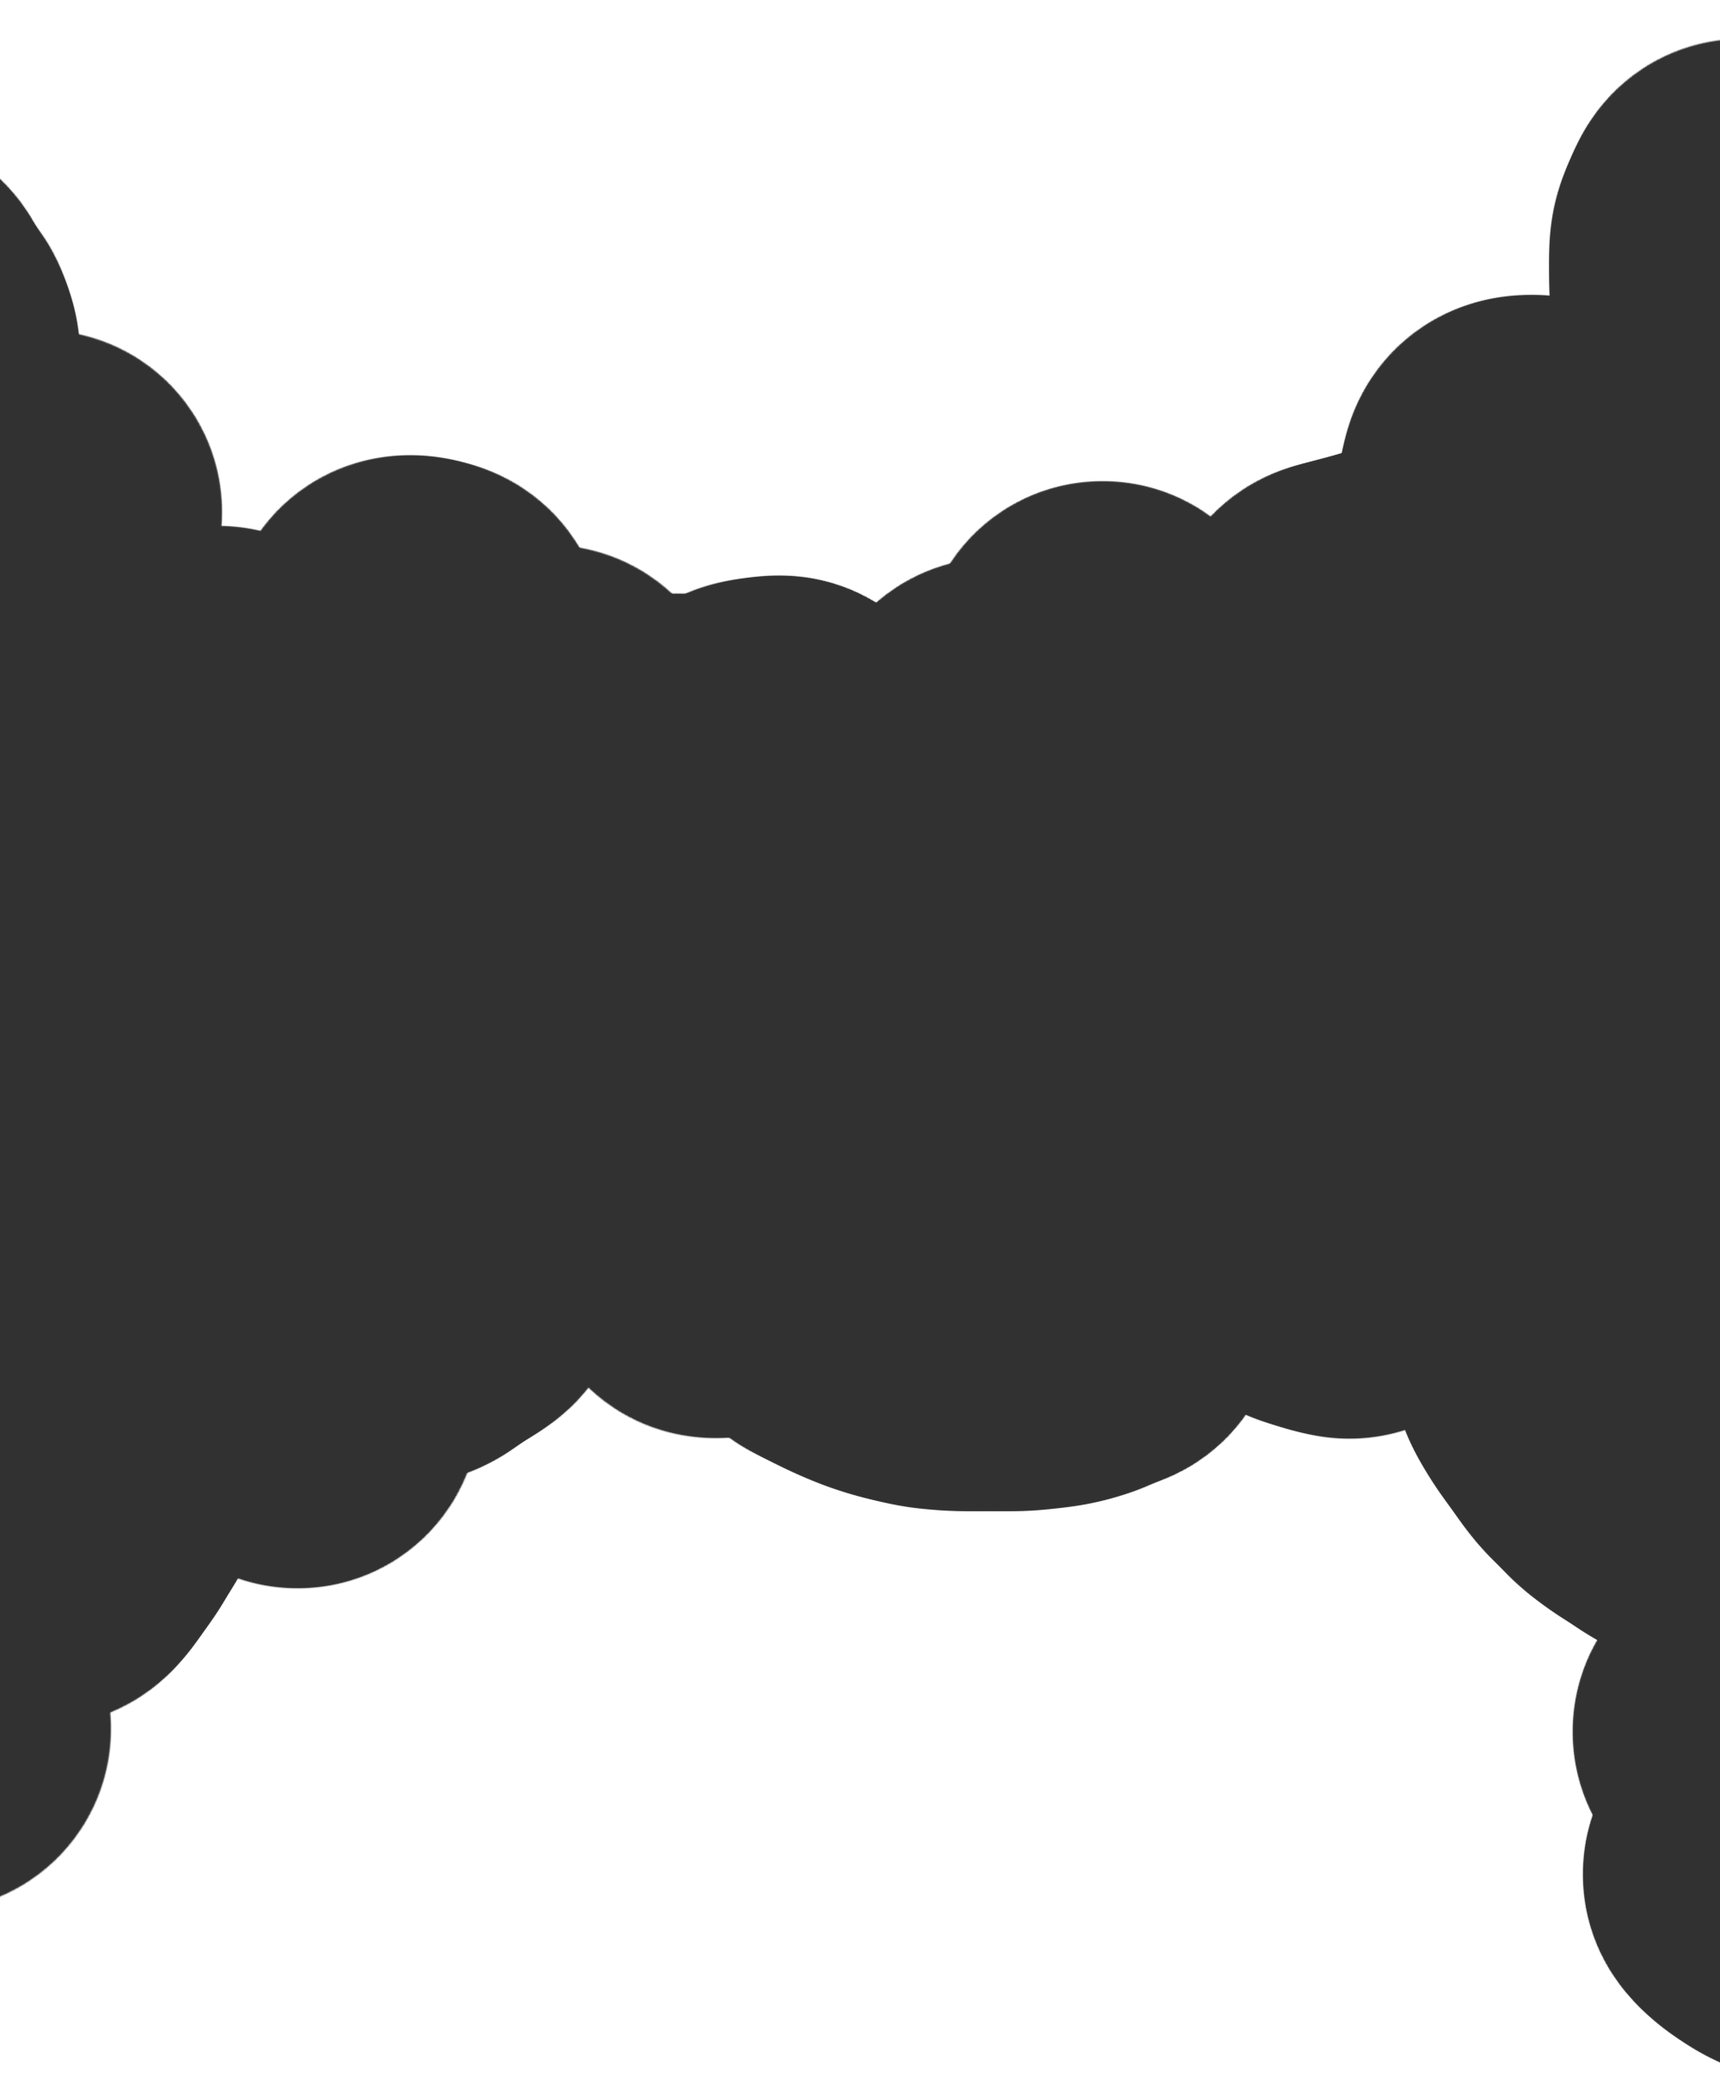
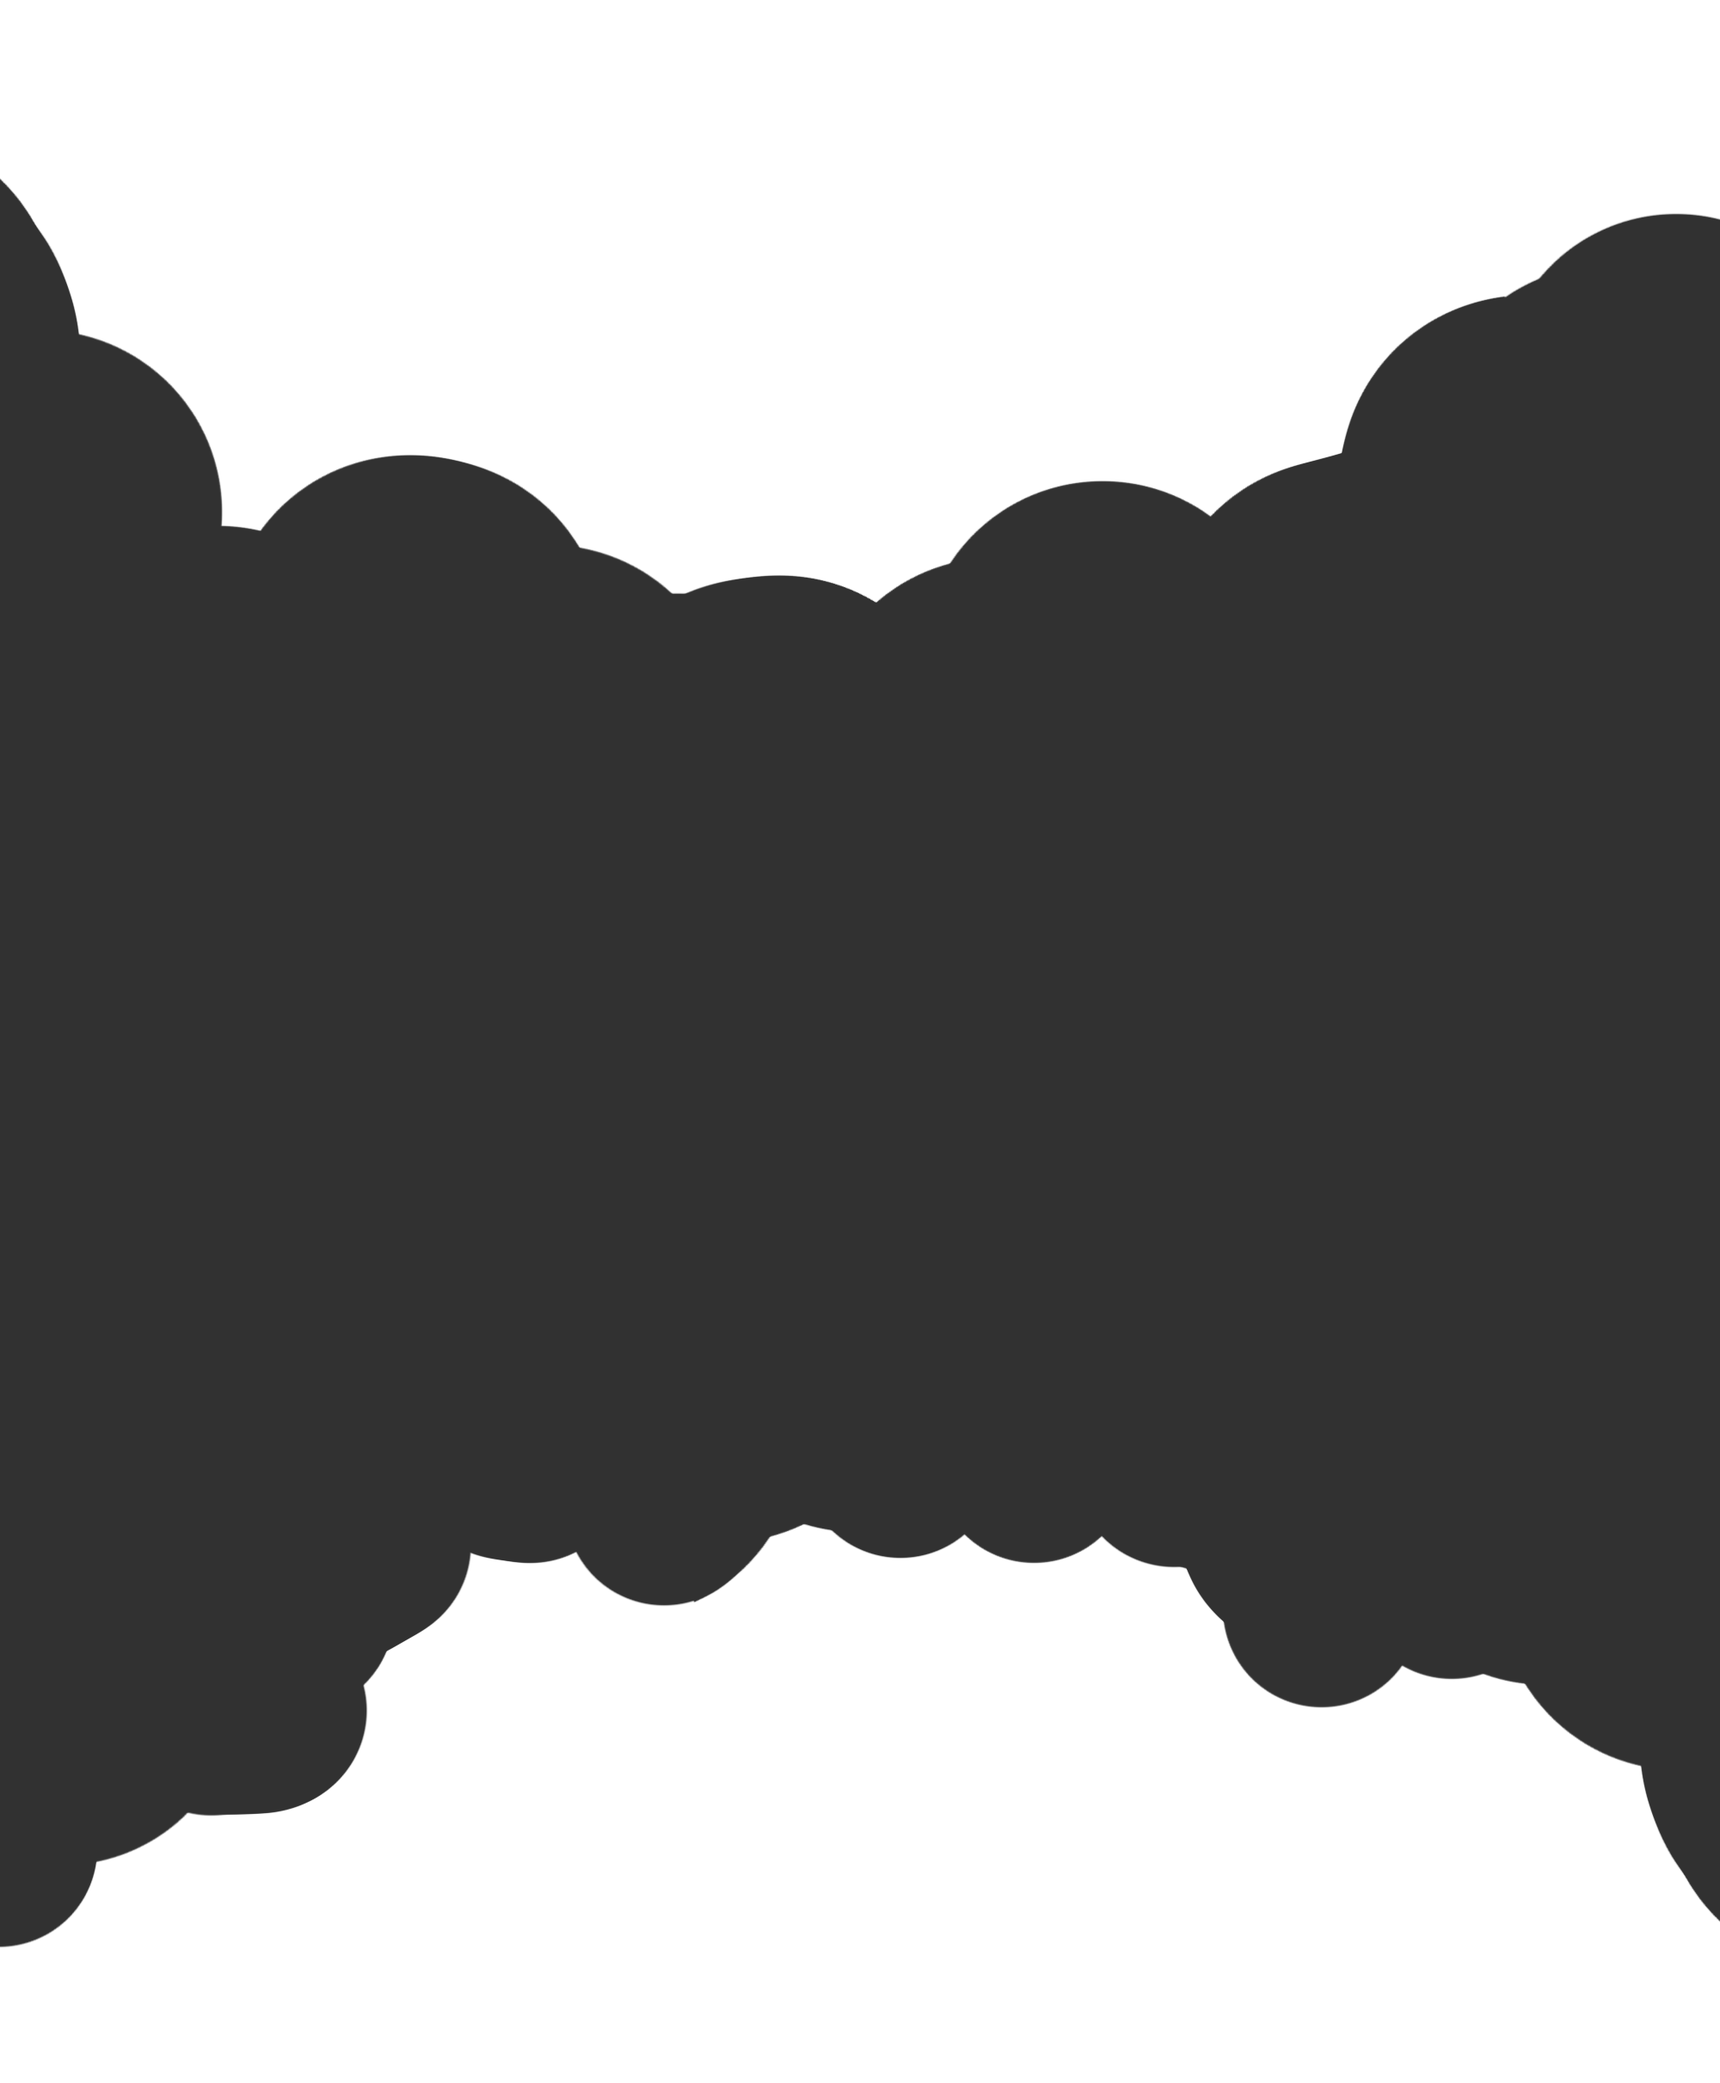
Matter Js build

Changed region(s): [[0.0, 0.65, 1.0, 0.9905], [0.899, 0.0, 1.0, 0.1238], [0.868, 0.1238, 0.899, 0.1548]]

diff --git a/src/components/Build.vue b/src/components/Build.vue
@@ -1,8 +1,5 @@
 <template>
   <div id="build">
-    <h2 id="build_title">
-      Build
-    </h2>
     <div id="matter_scene">
     </div>
   </div>
@@ -30,17 +27,56 @@ export default {
       for (let i of pos_list){
         this.createItem(i[0], i[1])
       }    
-      
-      // Title animation
-      let build_title = document.getElementById('build_title')
-      build_title.style.opacity = "1"
-      build_title.style.transform = "translateY(10vh)"
 
-      build_title.dataset.scroll = ""
-      build_title.dataset.scrollSpeed = "-10"
+      let stack = [
+        {
+          url: require("../assets/image/buildTitle/b.png"),
+          width: 390,
+          height: 560
+        },
+        {
+          url: require("../assets/image/buildTitle/u.png"),
+          width: 315,
+          height: 428
+        },
+        {
+          url: require("../assets/image/buildTitle/i.png"),
+          width: 19,
+          height: 592
+        },
+        {
+          url: require("../assets/image/buildTitle/l.png"),
+          width: 46,
+          height: 577
+        },
+        {
+          url: require("../assets/image/buildTitle/d.png"),
+          width: 394,
+          height: 600
+        }]
+
+      for (let i = 0; i < stack.length; i++){
+        this.createLetter(stack[i], i)
+      }
     },
     createItem(w, h){
       var item = this.Bodies.rectangle(w, h, 100, 100)
+      this.World.add(this.engine.world, [item])
+    },
+    createLetter(letter, pos){
+      let widthPart = window.innerWidth / 7
+      let final_height = window.innerHeight / 2
+
+      let ratio = (letter.height / final_height)
+      let final_width = letter.width / ratio
+      
+      let item = this.Bodies.rectangle(widthPart * (pos + 1), 500, final_width, final_height)
+      item.render.sprite.texture = letter.url
+      item.render.sprite.xScale = 1 / ratio
+      item.render.sprite.yScale = 1 / ratio
+
+      console.log(ratio)
+      
       this.World.add(this.engine.world, [item])
     }
   },
@@ -54,14 +90,14 @@ export default {
     
     // create a renderer
     let render_2d = Render.create({
-    element: container,
-    engine: this.engine,
-    options: {
+      element: container,
+      engine: this.engine,
+      options: {
         wireframes: false,
         height: window.innerHeight,
         width: window.innerWidth,
         background: 'transparent',
-    }
+      }
     })
 
     let ground = this.Bodies.rectangle( -200, window.innerHeight, window.innerWidth * 2 + 800, 50, { isStatic: true })
@@ -98,19 +134,6 @@ export default {
   overflow: hidden;
 
   display: grid;
-}
-#build_title
-{
-  font-size: 35vw;
-  text-align: center;
-  transform: translateY(-30vh);
-  transition-duration: 500ms;
-  margin: 0px;
-  opacity: 0;
-  
-  grid-column: 1;
-  grid-row: 1;
-  pointer-events: none;
 }
 #matter_scene
 {

diff --git a/src/components/Cloud.vue b/src/components/Cloud.vue
@@ -2,7 +2,7 @@
   <div id="cloud"> 
     <div id="cloud_container" data-scroll data-scroll-speed="4">
       <img :src="require('../assets/image/cloud.png')" alt="cloud">
-      <p>
+      <p data-scroll data-scroll-speed="-2">
         and
       </p>
     </div>
@@ -20,7 +20,7 @@ export default {
 {
   position: absolute;
   z-index: 2;
-  pointer-events: none;
+  pointer-events: none !important;
 }
 #cloud_container
 {
@@ -29,14 +29,12 @@ export default {
   height: 150vh;
 
   top: -85vh;
-  pointer-events: none;
 }
 #cloud_container img
 {
   object-fit: fill;
   width: 100%;
   height: 100%;
-  pointer-events: none;
 }
 #cloud_container p
 {
@@ -44,6 +42,5 @@ export default {
   font-size: 6vw; 
   margin: 2em;
   top: -95vh;
-  pointer-events: none;
 }
 </style>

diff --git a/src/components/Love.vue b/src/components/Love.vue
@@ -75,7 +75,7 @@ export default {
 {
   font-size: 15vw;
   margin-top: 2vh;
-  margin-bottom: 2vh;
+  margin-bottom: 0px;
   margin-left: 50vw
 }
 </style>
